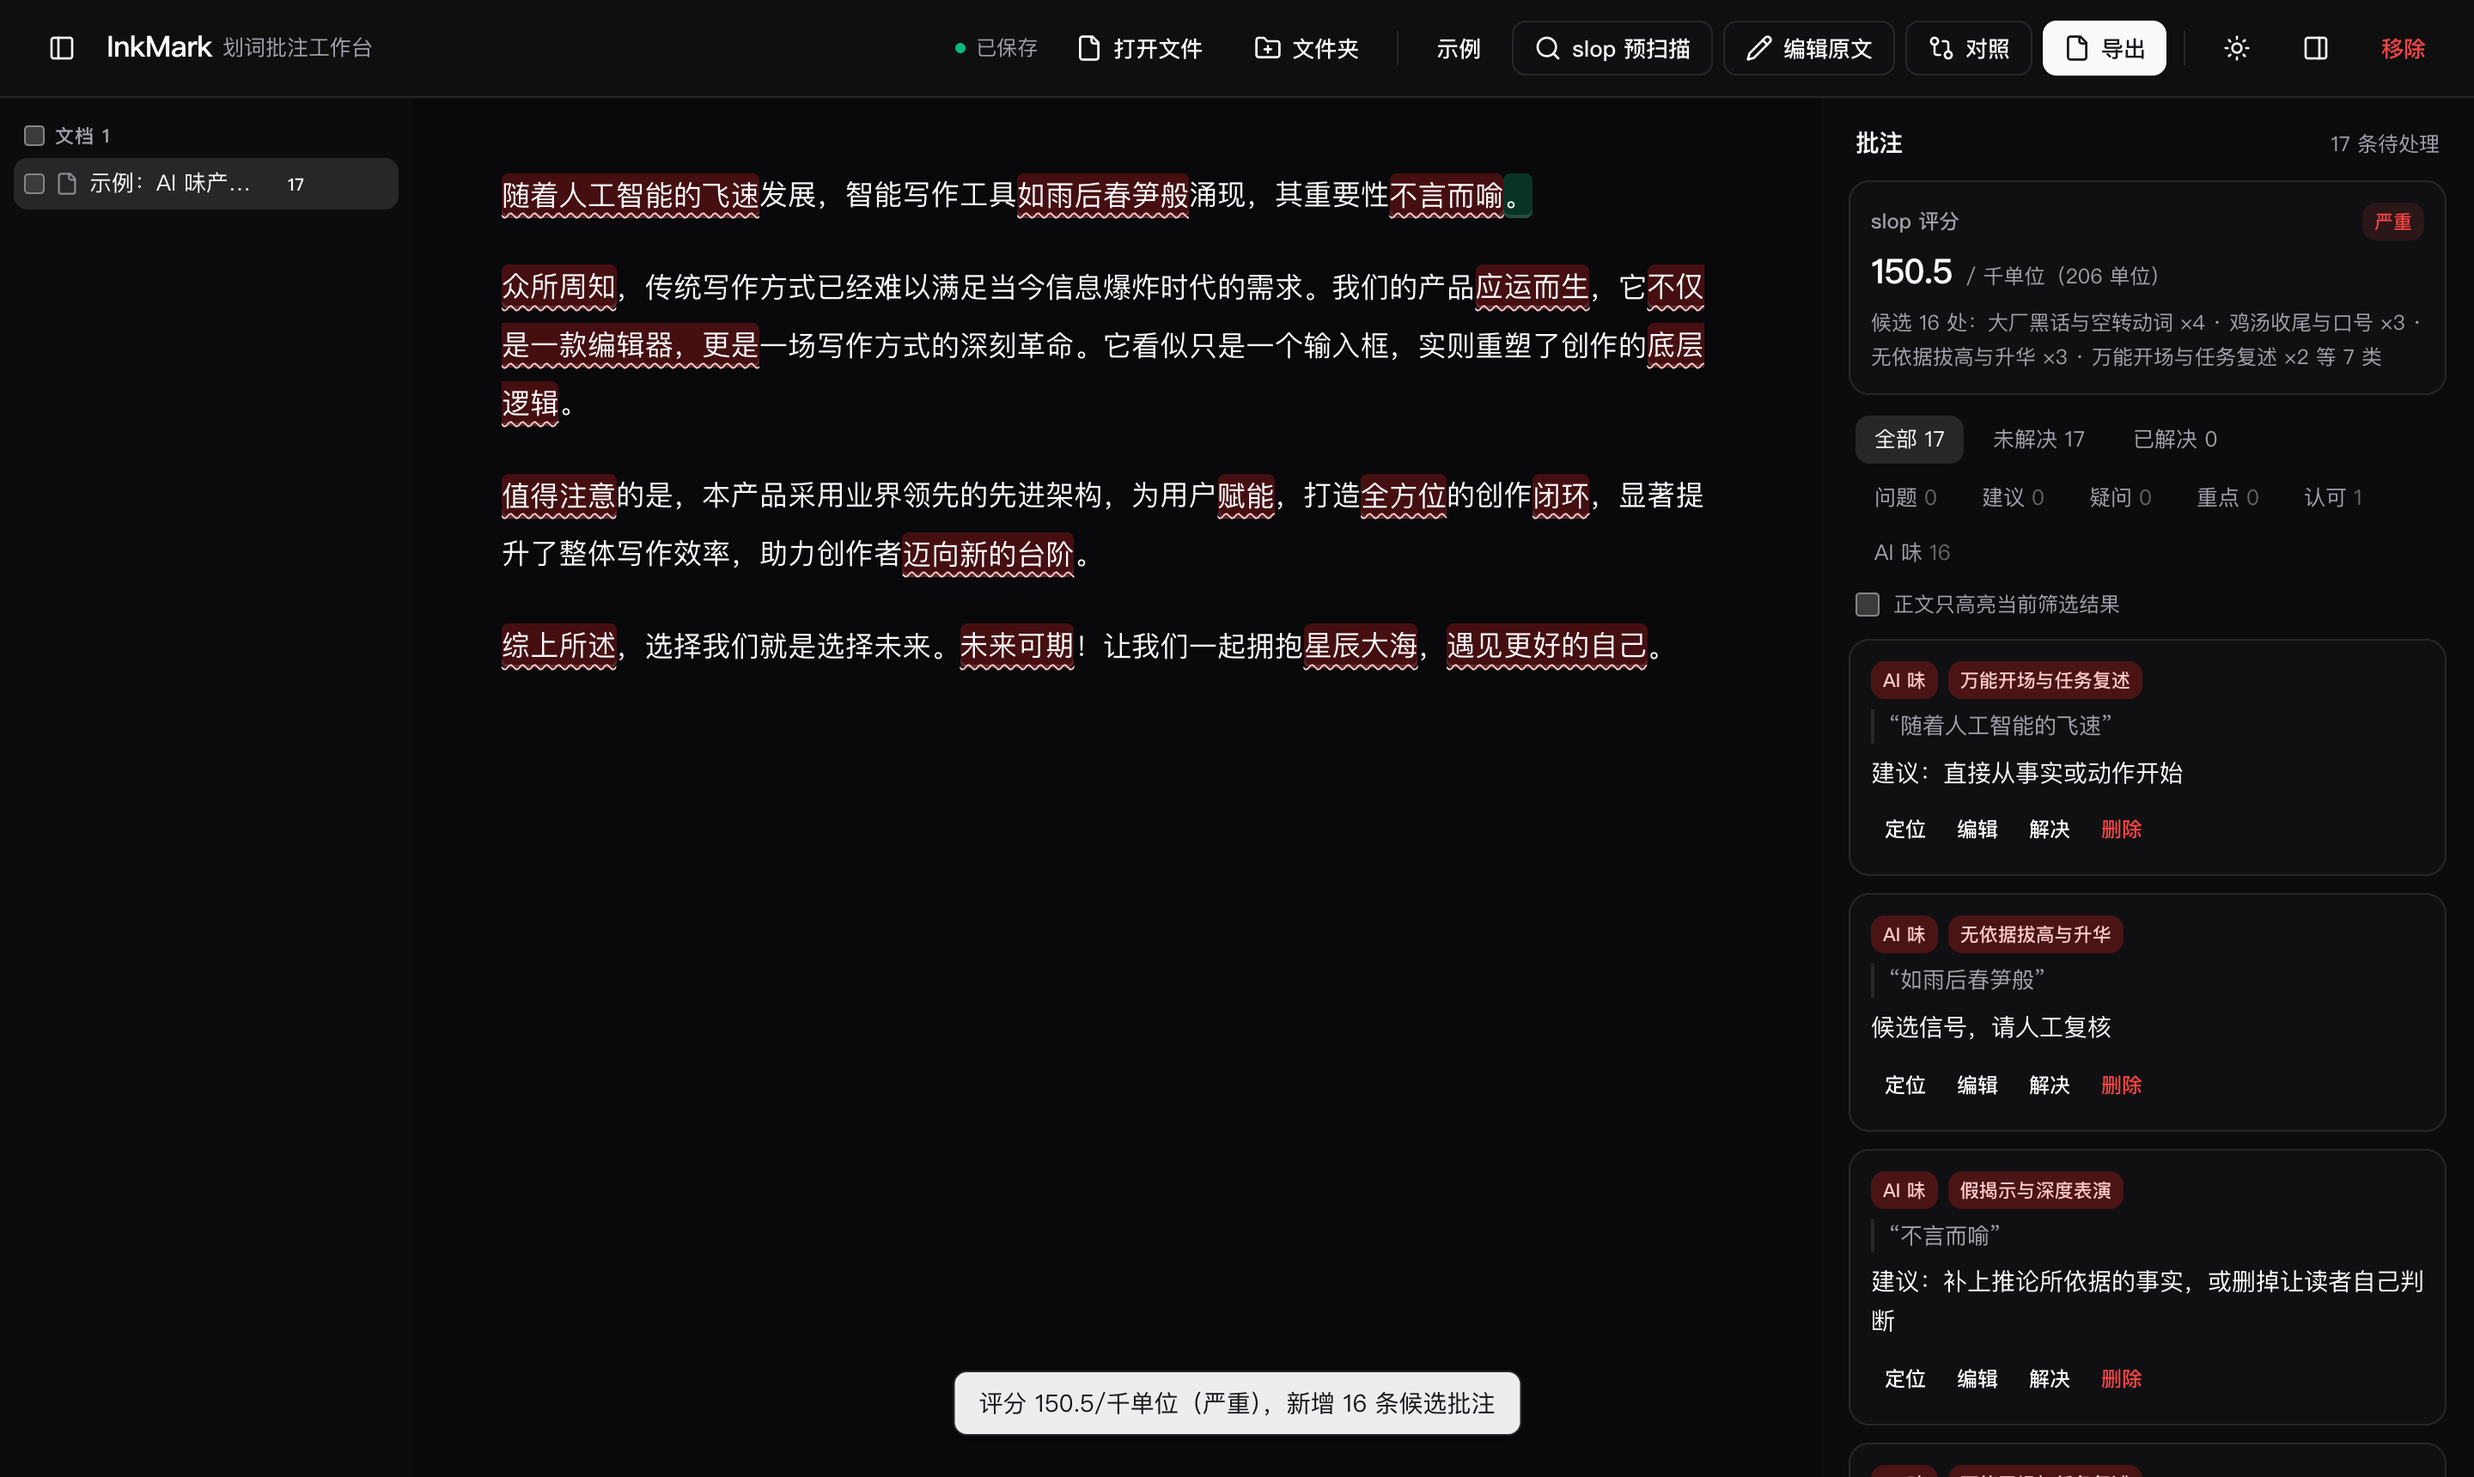
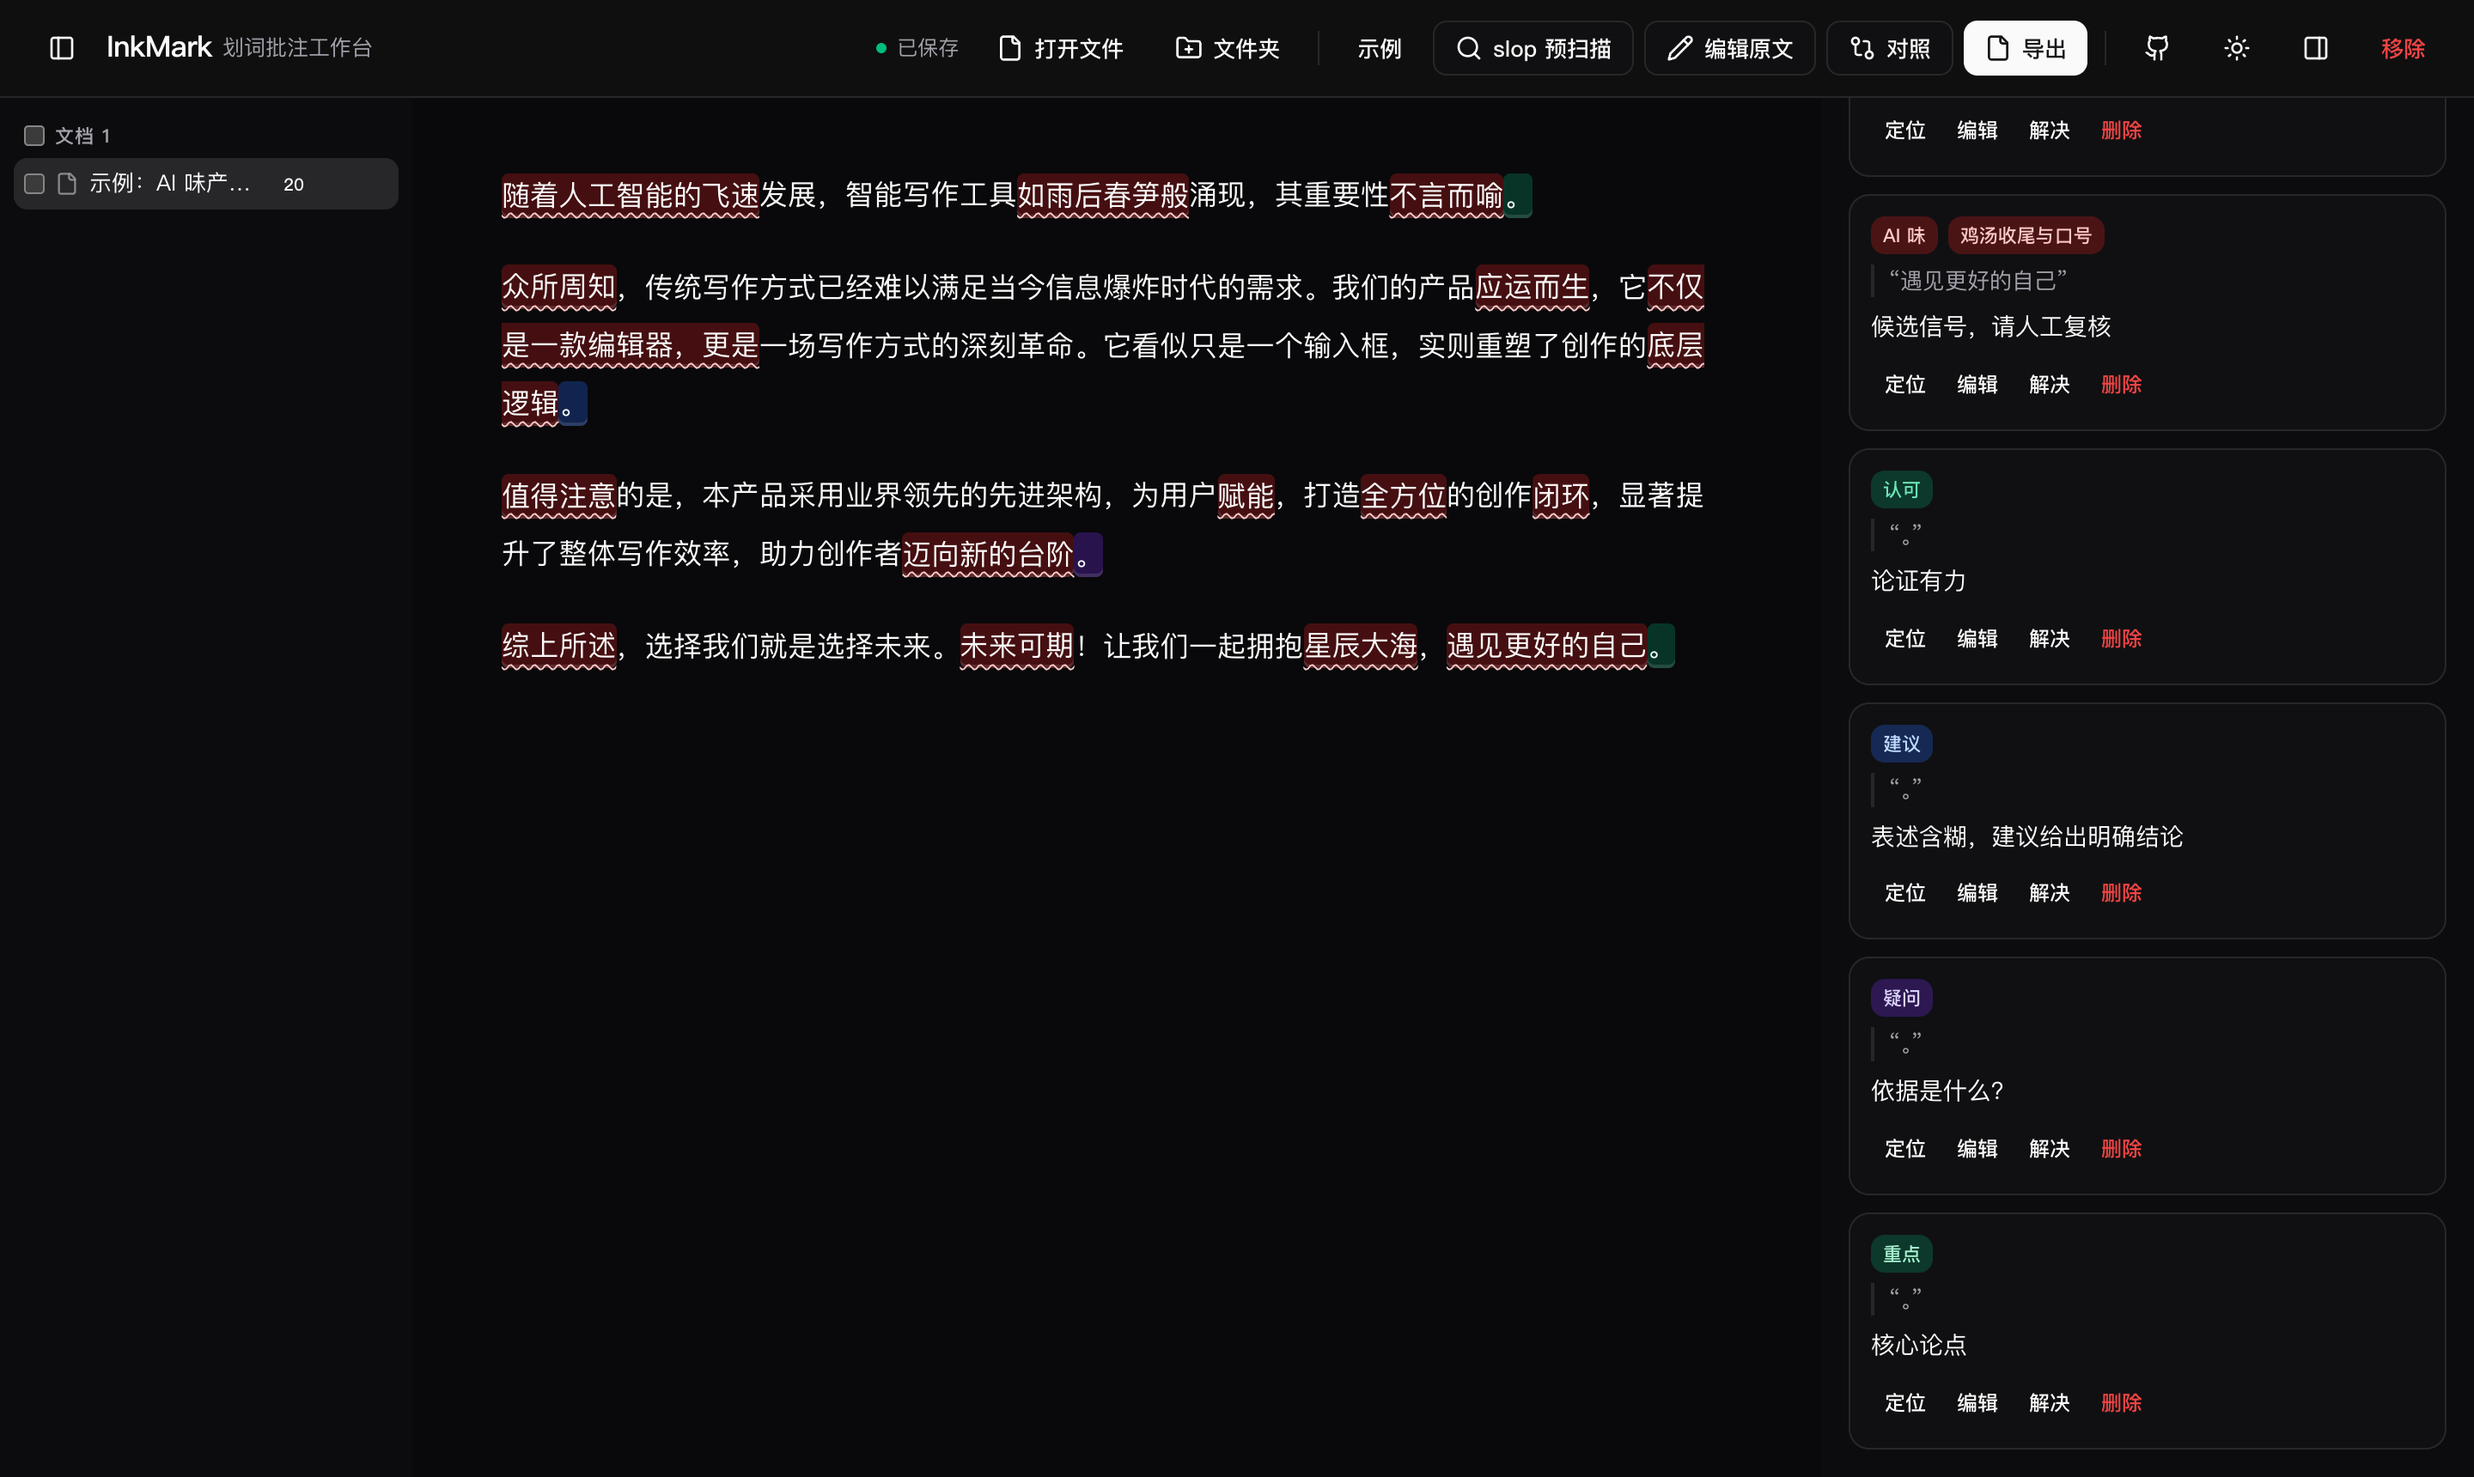
feat: 顶栏 GitHub 仓库入口 + 截图补齐多色批注
- header 新增 GitHub 图标链接（lucide mark，新窗口打开仓库），
  全尺寸可见；<400px 收起保存指示器保证 320px 也不溢出
  （实测 320 布局 scrollWidth=320）
- 重拍三张 README 截图：认可/建议/疑问/重点 四类彩色高亮与
  AI 味红色波浪线同框，侧栏滚到多色卡片处，等待「已保存」
  状态再拍（此前只有红色候选，色彩故事不完整）

diff --git a/index.html b/index.html
@@ -23,7 +23,7 @@
           <span class="hidden text-[12.5px] text-muted-foreground lg:inline">划词批注工作台</span>
         </div>
         <div class="flex items-center gap-1.5">
-          <span id="save-status" class="mr-1 flex shrink-0 items-center gap-1.5 text-xs text-muted-foreground" title="自动保存到本地浏览器">
+          <span id="save-status" class="mr-1 flex shrink-0 items-center gap-1.5 text-xs text-muted-foreground max-[399px]:hidden" title="自动保存到本地浏览器">
             <span id="save-dot" class="size-1.5 rounded-full bg-emerald-500"></span><span id="save-text" class="hidden sm:inline">已保存</span>
           </span>
           <button id="btn-import-files" class="btn btn-ghost btn-sm" title="导入一个或多个 .txt / .md / 会话 .json">
@@ -55,6 +55,16 @@
             <span class="hidden lg:inline">导出</span>
           </button>
           <span class="mx-1 hidden h-5 w-px bg-border sm:block"></span>
+          <a
+            href="https://github.com/YuniqueCore/inkmark"
+            target="_blank"
+            rel="noopener noreferrer"
+            class="btn btn-ghost btn-sm"
+            title="GitHub 仓库"
+            aria-label="GitHub 仓库"
+          >
+            <svg xmlns="http://www.w3.org/2000/svg" viewBox="0 0 24 24" fill="none" stroke="currentColor" stroke-width="2" stroke-linecap="round" stroke-linejoin="round" class="size-4"><path d="M15 22v-4a4.8 4.8 0 0 0-1-3.5c3 0 6-2 6-5.5.08-1.25-.27-2.48-1-3.5.28-1.15.28-2.35 0-3.5 0 0-1 0-3 1.5-2.64-.5-5.36-.5-8 0C6 2 5 2 5 2c-.3 1.15-.3 2.35 0 3.5A5.403 5.403 0 0 0 4 9c0 3.5 3 5.5 6 5.5-.39.49-.68 1.05-.85 1.65-.17.6-.22 1.23-.15 1.85v4"/><path d="M9 18c-4.51 2-5-2-7-2"/></svg>
+          </a>
           <button id="btn-theme" class="btn btn-ghost btn-sm" title="切换明暗主题" aria-label="切换主题"></button>
           <button id="btn-sidebar" class="btn btn-ghost btn-sm" title="收起/展开批注栏">
             <svg xmlns="http://www.w3.org/2000/svg" viewBox="0 0 24 24" fill="none" stroke="currentColor" stroke-width="2" stroke-linecap="round" stroke-linejoin="round" class="size-4"><rect width="18" height="18" x="3" y="3" rx="2"/><path d="M15 3v18"/></svg>

diff --git a/README.md b/README.md
@@ -13,11 +13,11 @@
 
 **[在线使用 →](https://yuniquecore.github.io/inkmark/)**
 
-<img src="docs/screenshots/desktop-light.png" alt="桌面亮色主题：slop 预扫描标红套话候选，侧栏评分统计卡与批注列表" width="100%" />
+<img src="docs/screenshots/desktop-light.png" alt="桌面亮色主题：AI 味候选红色波浪线 + 认可/建议/疑问/重点彩色高亮，侧栏多类批注卡" width="100%" />
 
 | 手机 · 撰写卡（快捷语两行封顶、横向滚动） | 桌面 · 暗色主题 |
 | --- | --- |
-| <img src="docs/screenshots/mobile-composer.png" alt="手机端撰写卡：四类批注类型与快捷语 chips" width="360" /> | <img src="docs/screenshots/desktop-dark.png" alt="桌面暗色主题" width="100%" /> |
+| <img src="docs/screenshots/mobile-composer.png" alt="手机端：多色批注高亮与撰写卡" width="360" /> | <img src="docs/screenshots/desktop-dark.png" alt="桌面暗色主题" width="100%" /> |
 
 </div>
 
